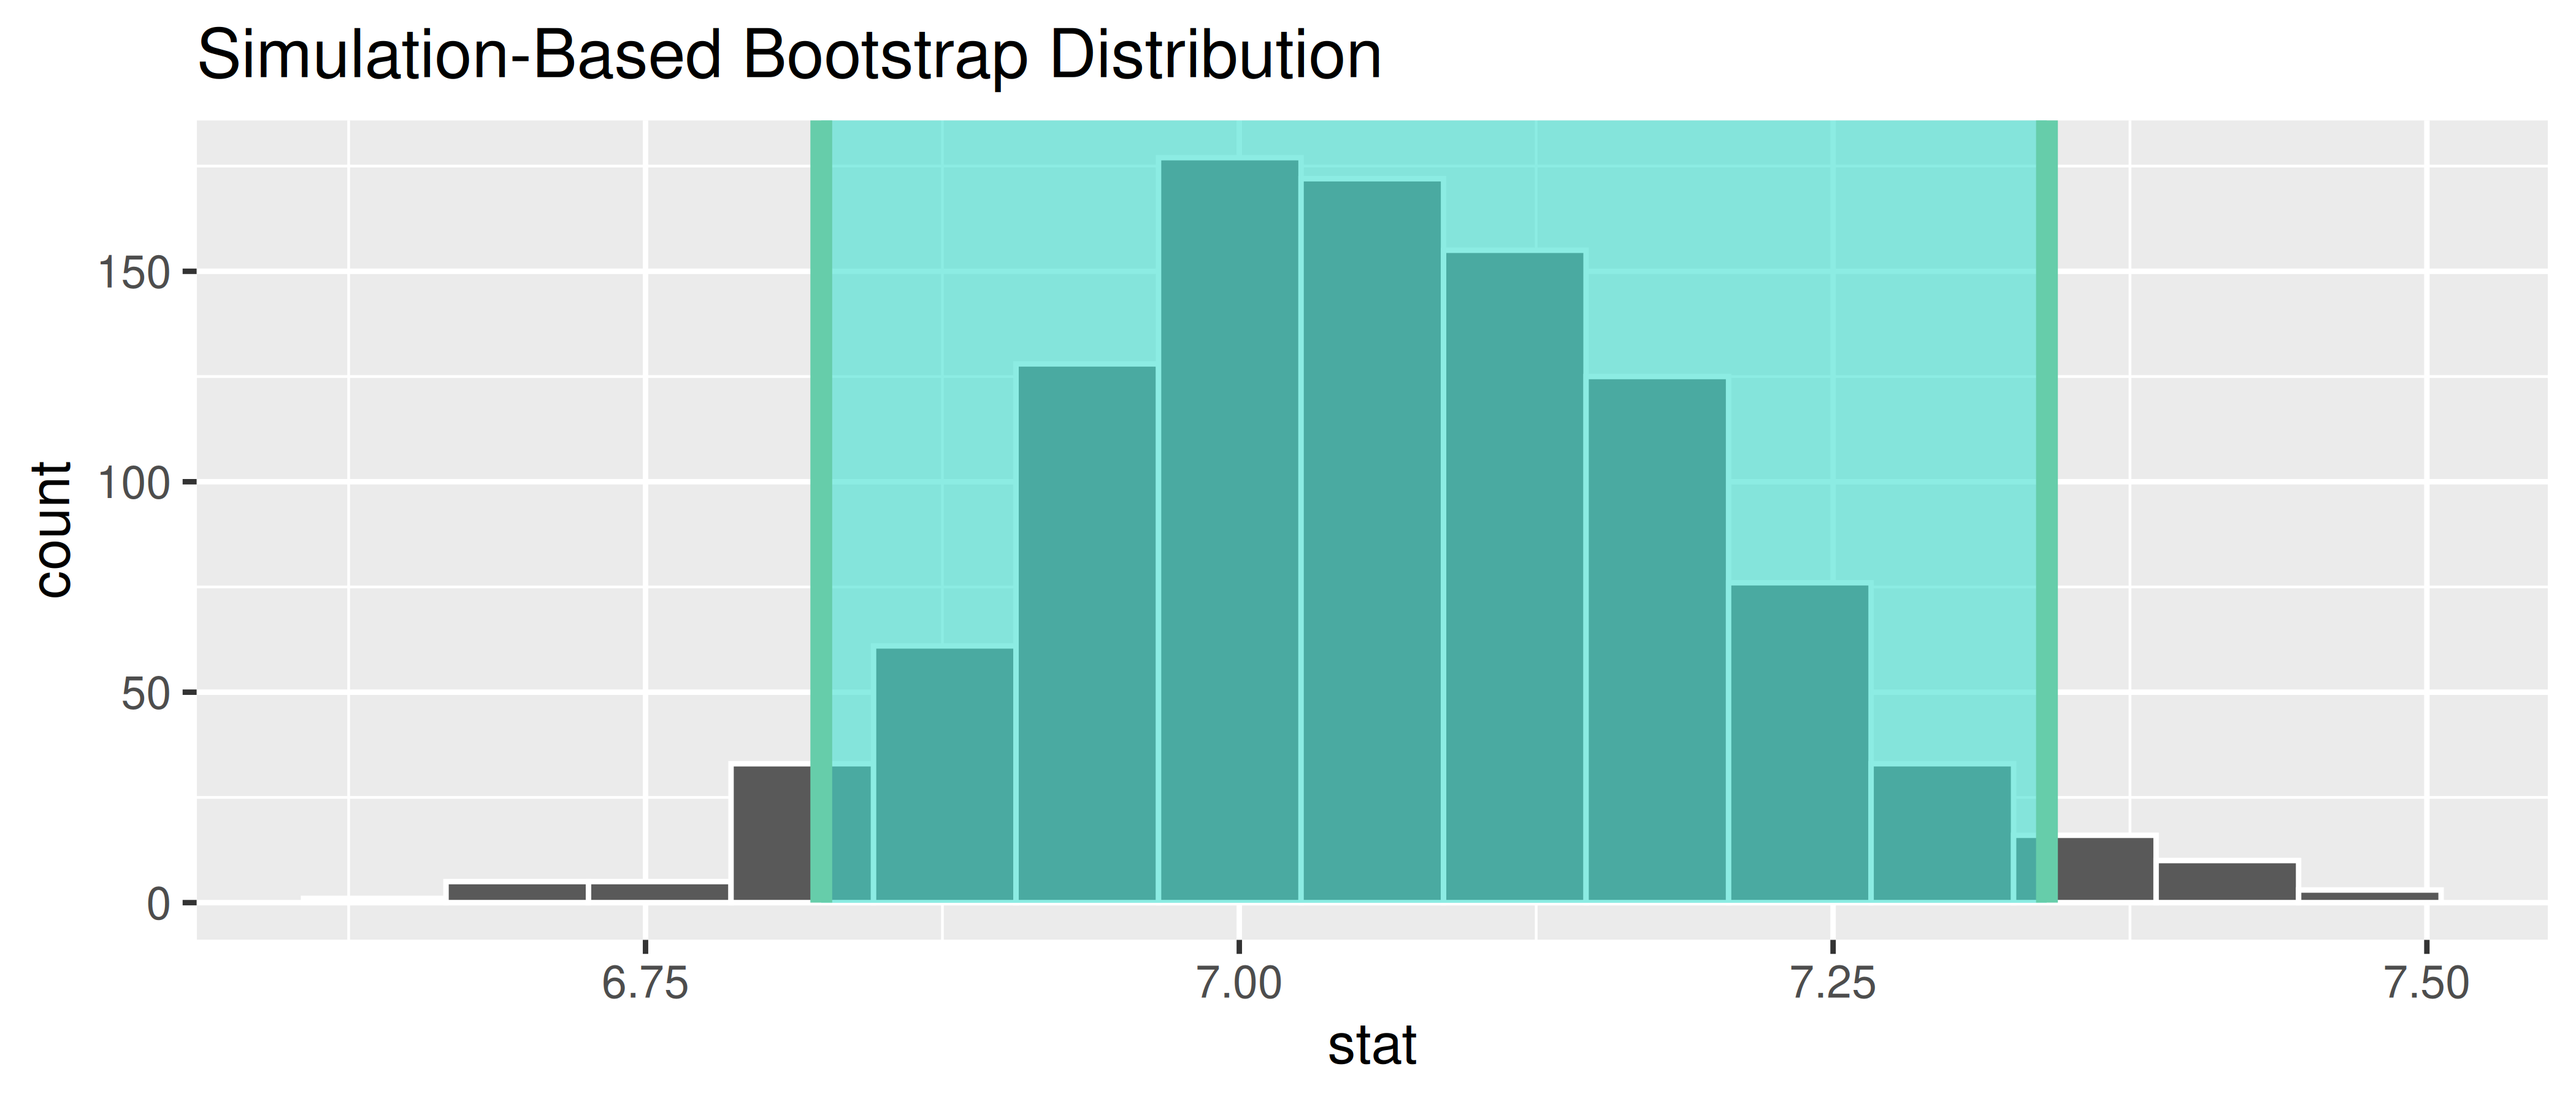
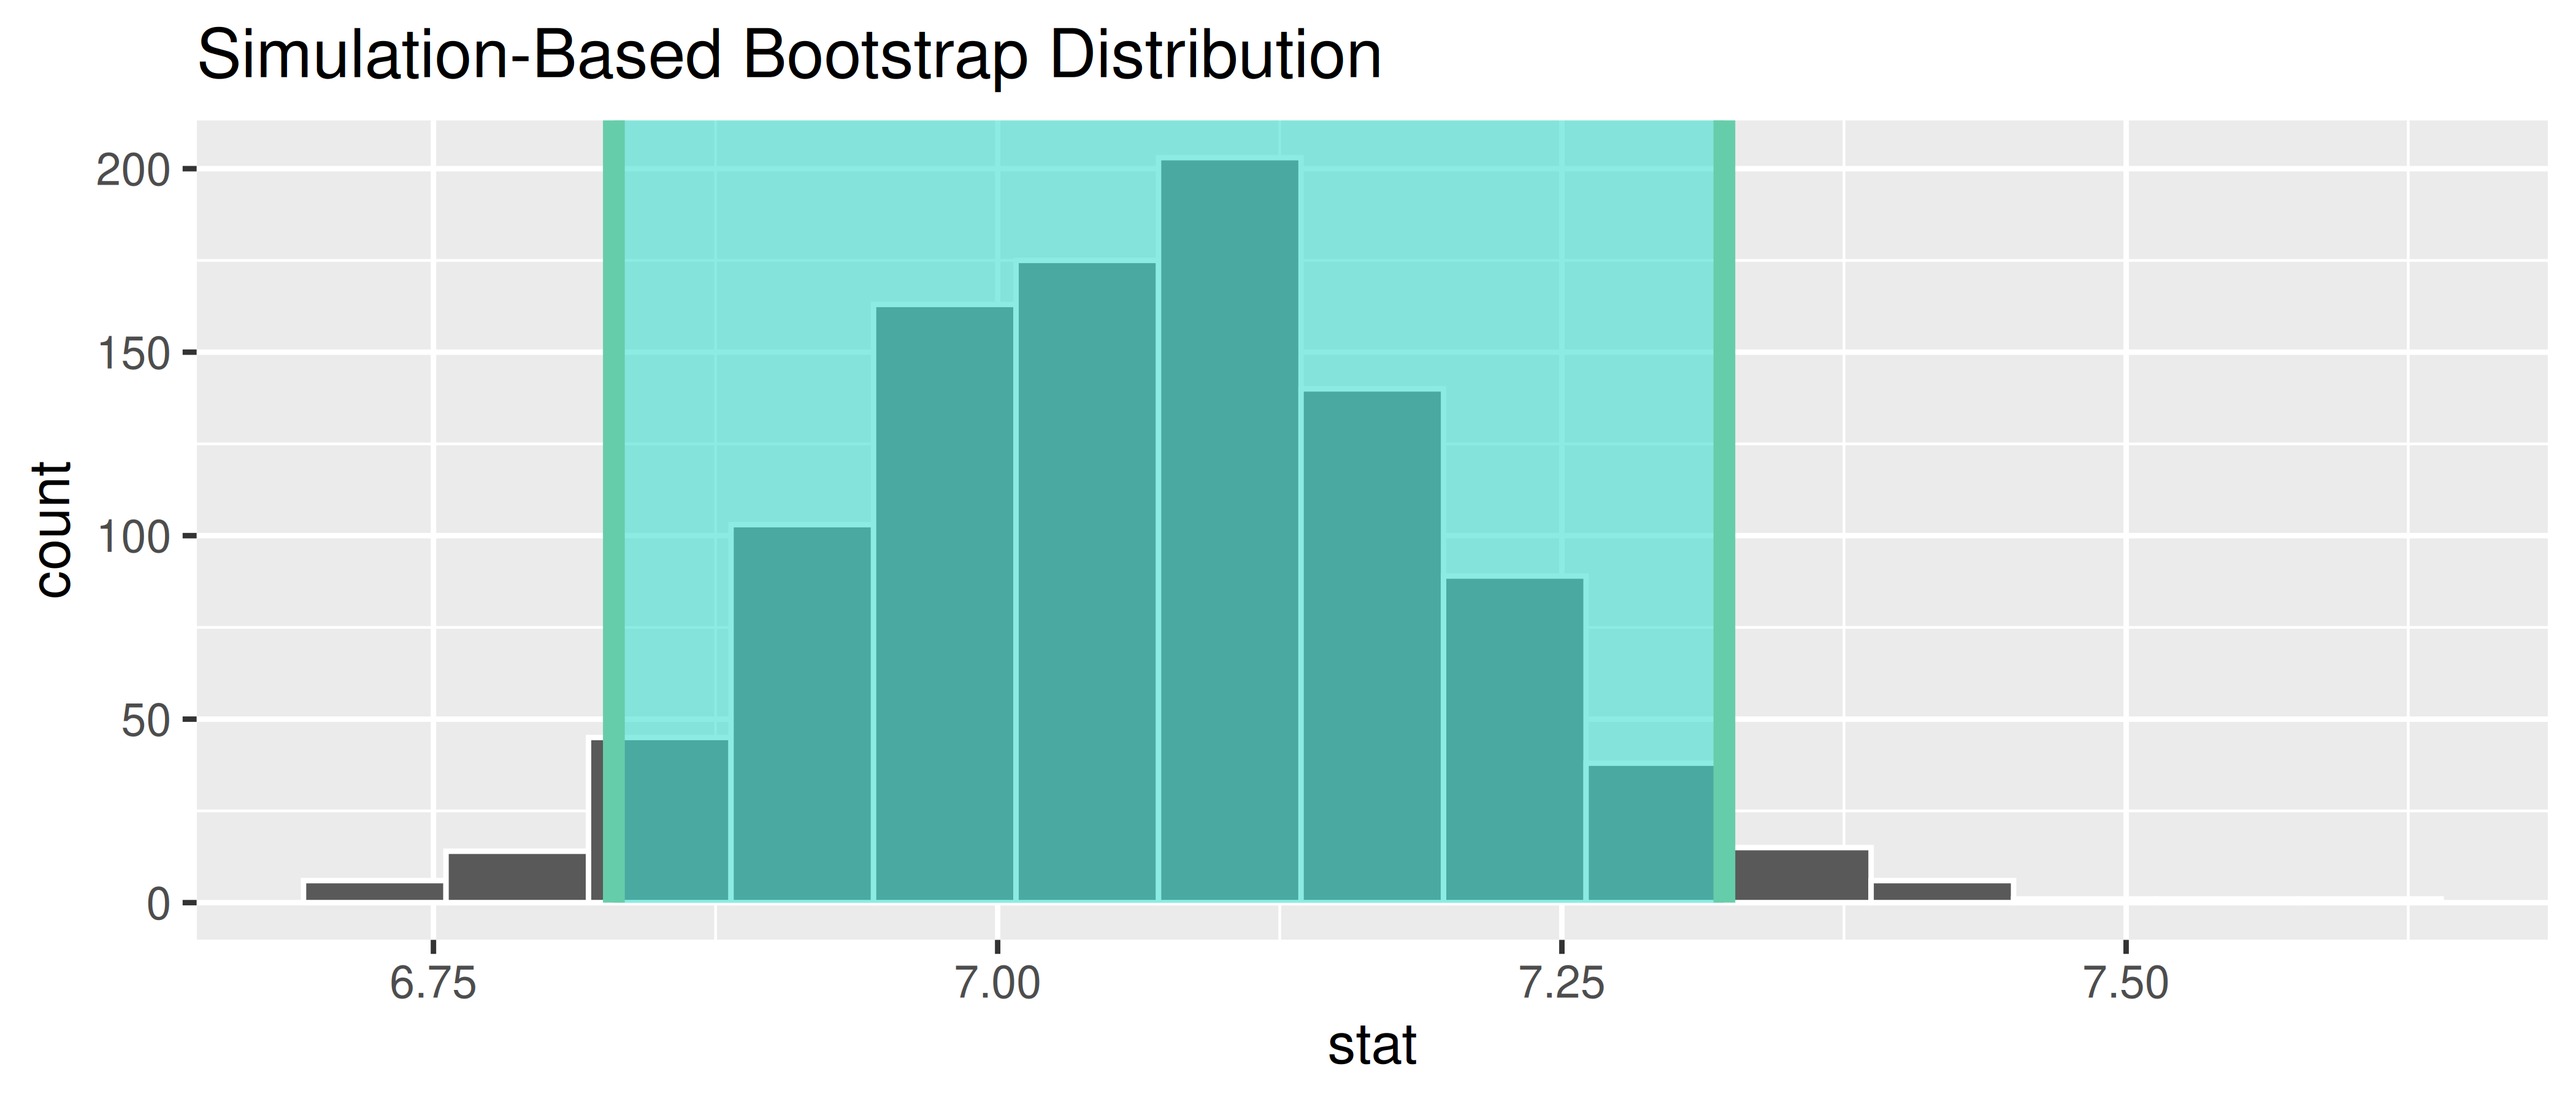
Strip remaining 19 reveal-answer blocks from regular exercise files

diff --git a/STAT145/textbook/tech/tech-tutorial-simulate.html b/STAT145/textbook/tech/tech-tutorial-simulate.html
@@ -712,7 +712,7 @@ Jamovi: built-in menus don’t shuffle
 <pre><code># A tibble: 1 × 2
   lower_ci upper_ci
      &lt;dbl&gt;    &lt;dbl&gt;
-1     6.82     7.34</code></pre>
+1     6.83     7.32</code></pre>
 </div>
 <div class="sourceCode cell-code" id="cb6"><pre class="sourceCode r code-with-copy"><code class="sourceCode r"><span id="cb6-1"><a href="#cb6-1" aria-hidden="true" tabindex="-1"></a>boot_dist <span class="sc">|&gt;</span></span>
 <span id="cb6-2"><a href="#cb6-2" aria-hidden="true" tabindex="-1"></a>  <span class="fu">visualize</span>() <span class="sc">+</span></span>
